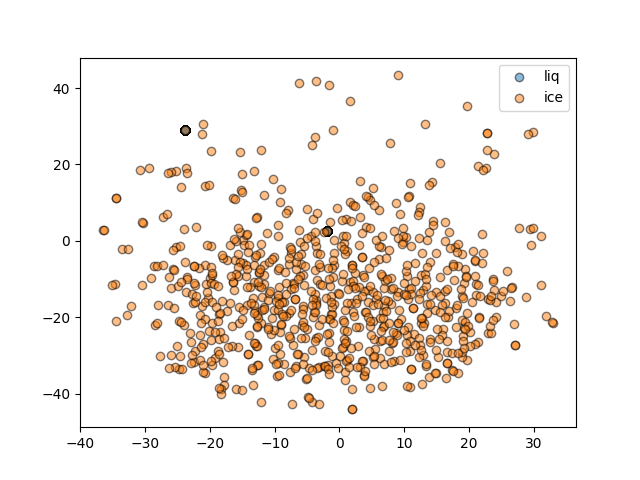
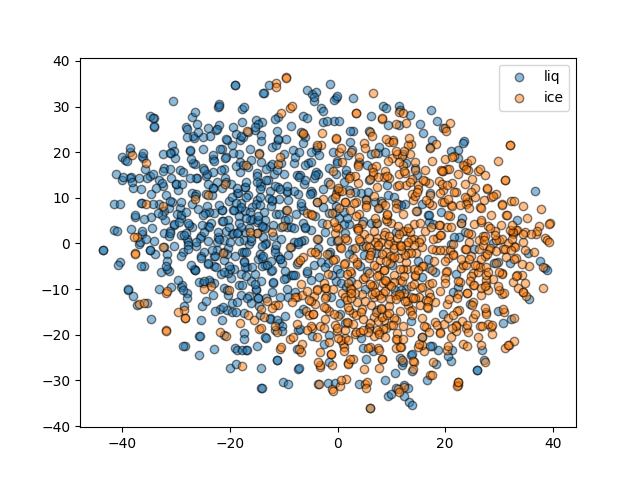
trying to fix rsf tsne plots

diff --git a/rsf_visualize.py b/rsf_visualize.py
@@ -49,8 +49,9 @@ def plot_rsf_histograms(rsf_df, FTR_HDRS, scale=True, trim=True, log_y=True, nbi
 def plot_rsf_tsne(rsf_df, FTR_HDRS, fname=""):
     # run tsne on rsf matrix
     X_transform = manifold.TSNE(n_components=2).fit_transform(rsf_df[FTR_HDRS])
-    X_transform_liq = X_transform[rsf_df["y"]]
+    X_transform_liq = X_transform[rsf_df["y"]==1]
     X_transform_ice = X_transform[rsf_df["y"]==0]
+    pdb.set_trace()
     # plot
     if fname == "":
         fname = "rsf_tsne_" + datetime.datetime.now().strftime("%Y-%m-%d_%H:%M")
@@ -64,6 +65,7 @@ def main():
     parser = argparse.ArgumentParser()
     parser.add_argument("--plot_hist", action="store_true")
     parser.add_argument("--plot_tsne", action="store_true")
+    parser.add_argument("--tsne_fname", type=str, default="")
     parser.add_argument("--dir_suffix", default="")
     parser.add_argument("--debug", action="store_true")
     parser.add_argument("--nbins", type=int, default=100)
@@ -77,7 +79,7 @@ def main():
                             dir_suffix=opts.dir_suffix, debug=opts.debug,
                             verbose=opts.not_verbose)
     if opts.plot_tsne:
-        plot_rsf_tsne(rsf_df, FTR_HDRS)
+        plot_rsf_tsne(rsf_df, FTR_HDRS, fname=opts.tsne_fname)
     return
 
 if __name__ == "__main__":
